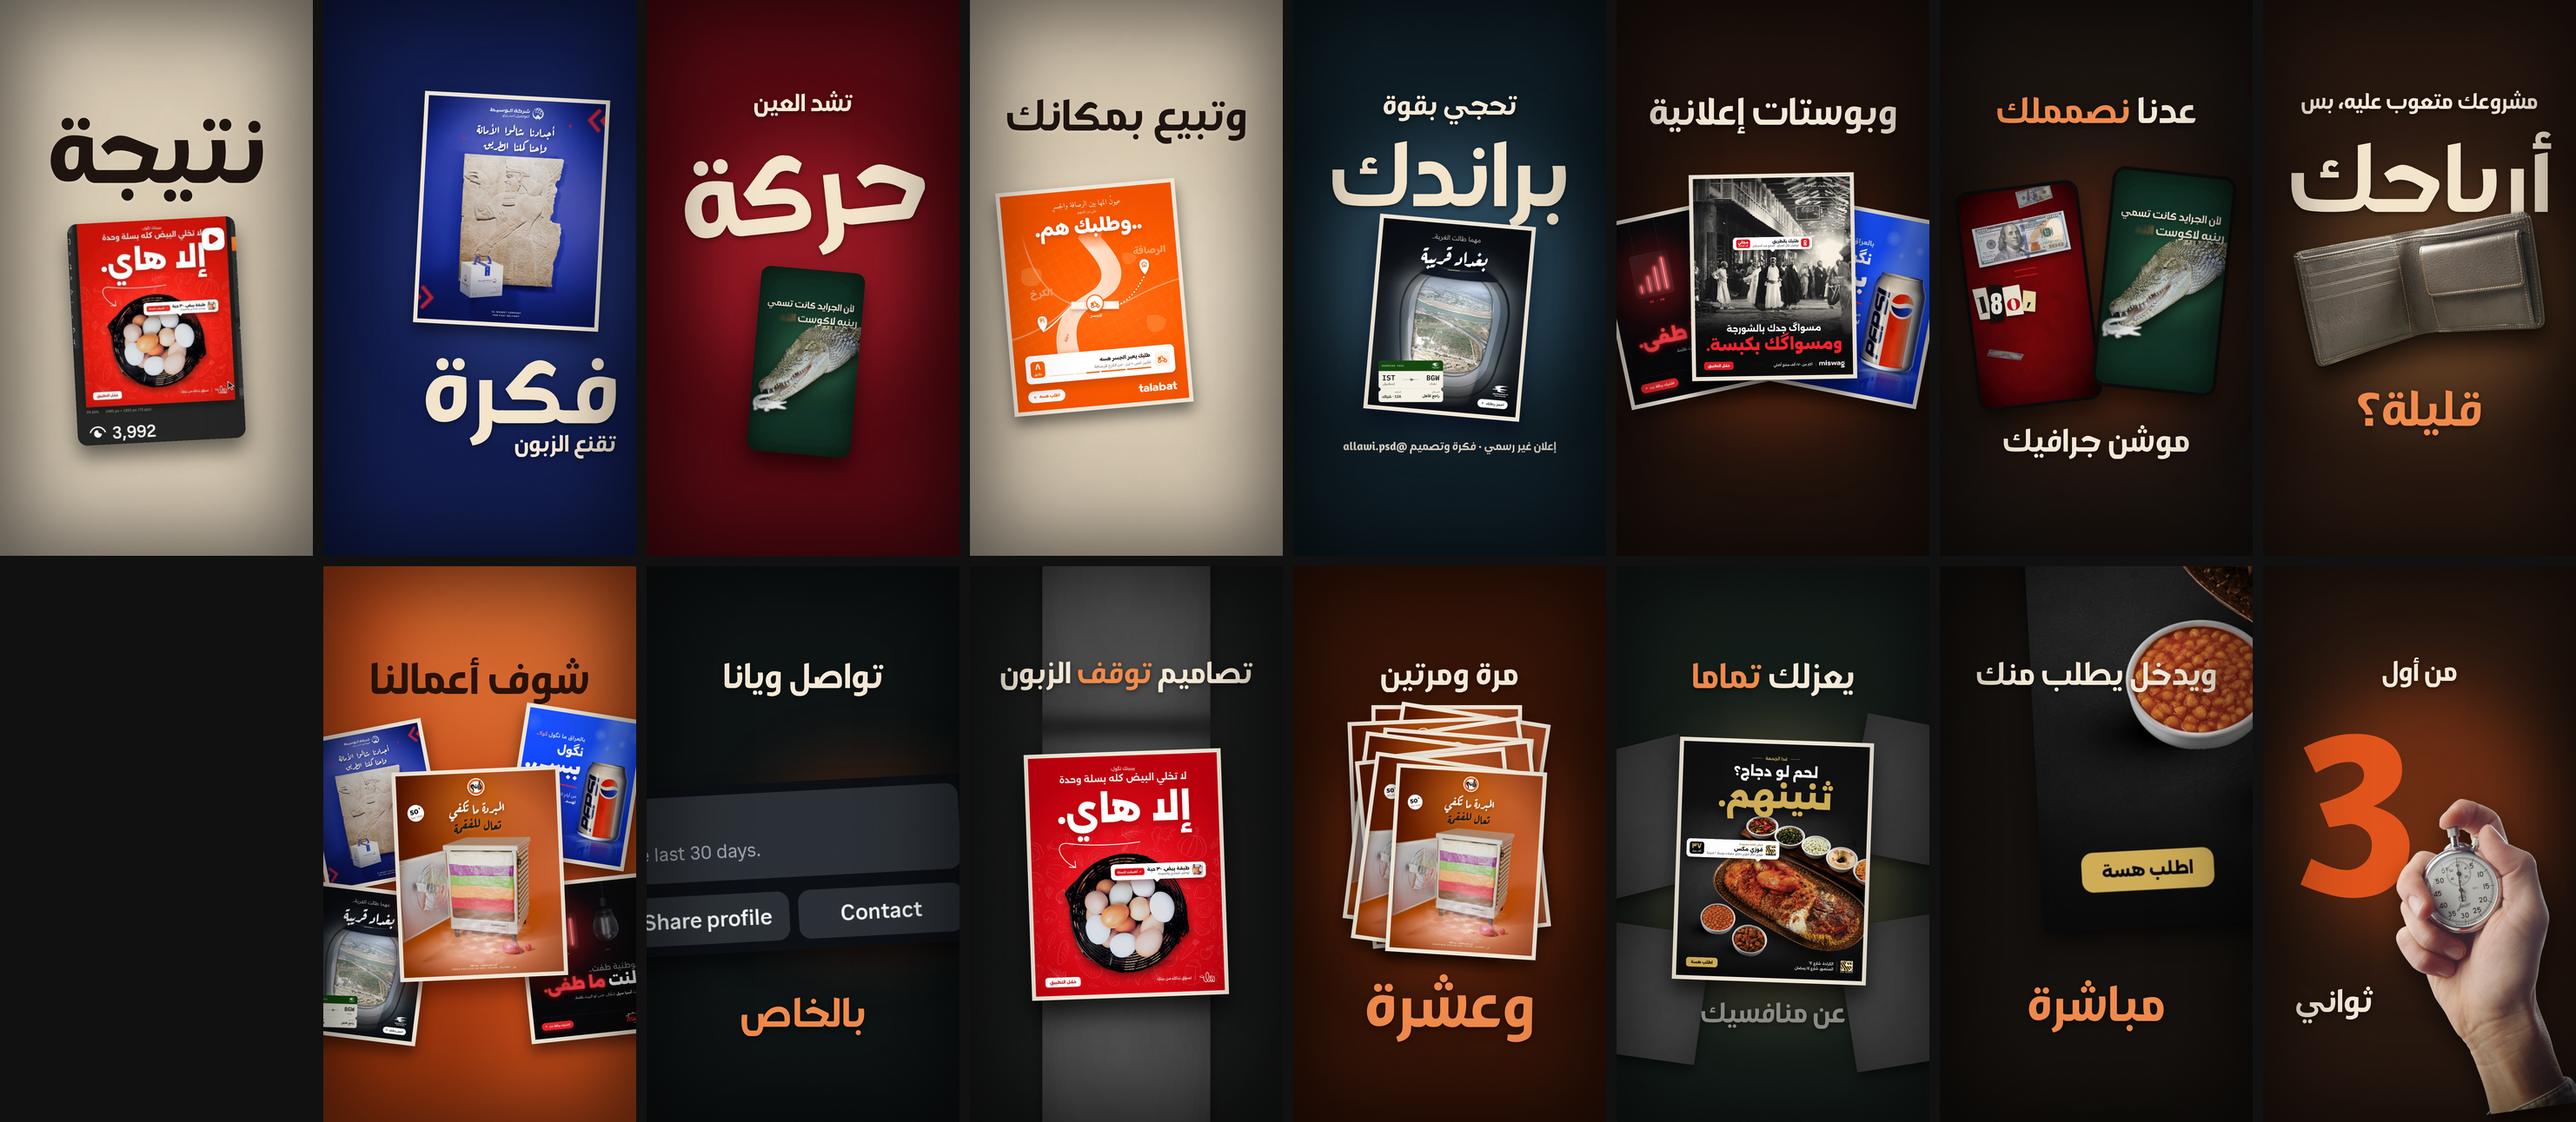
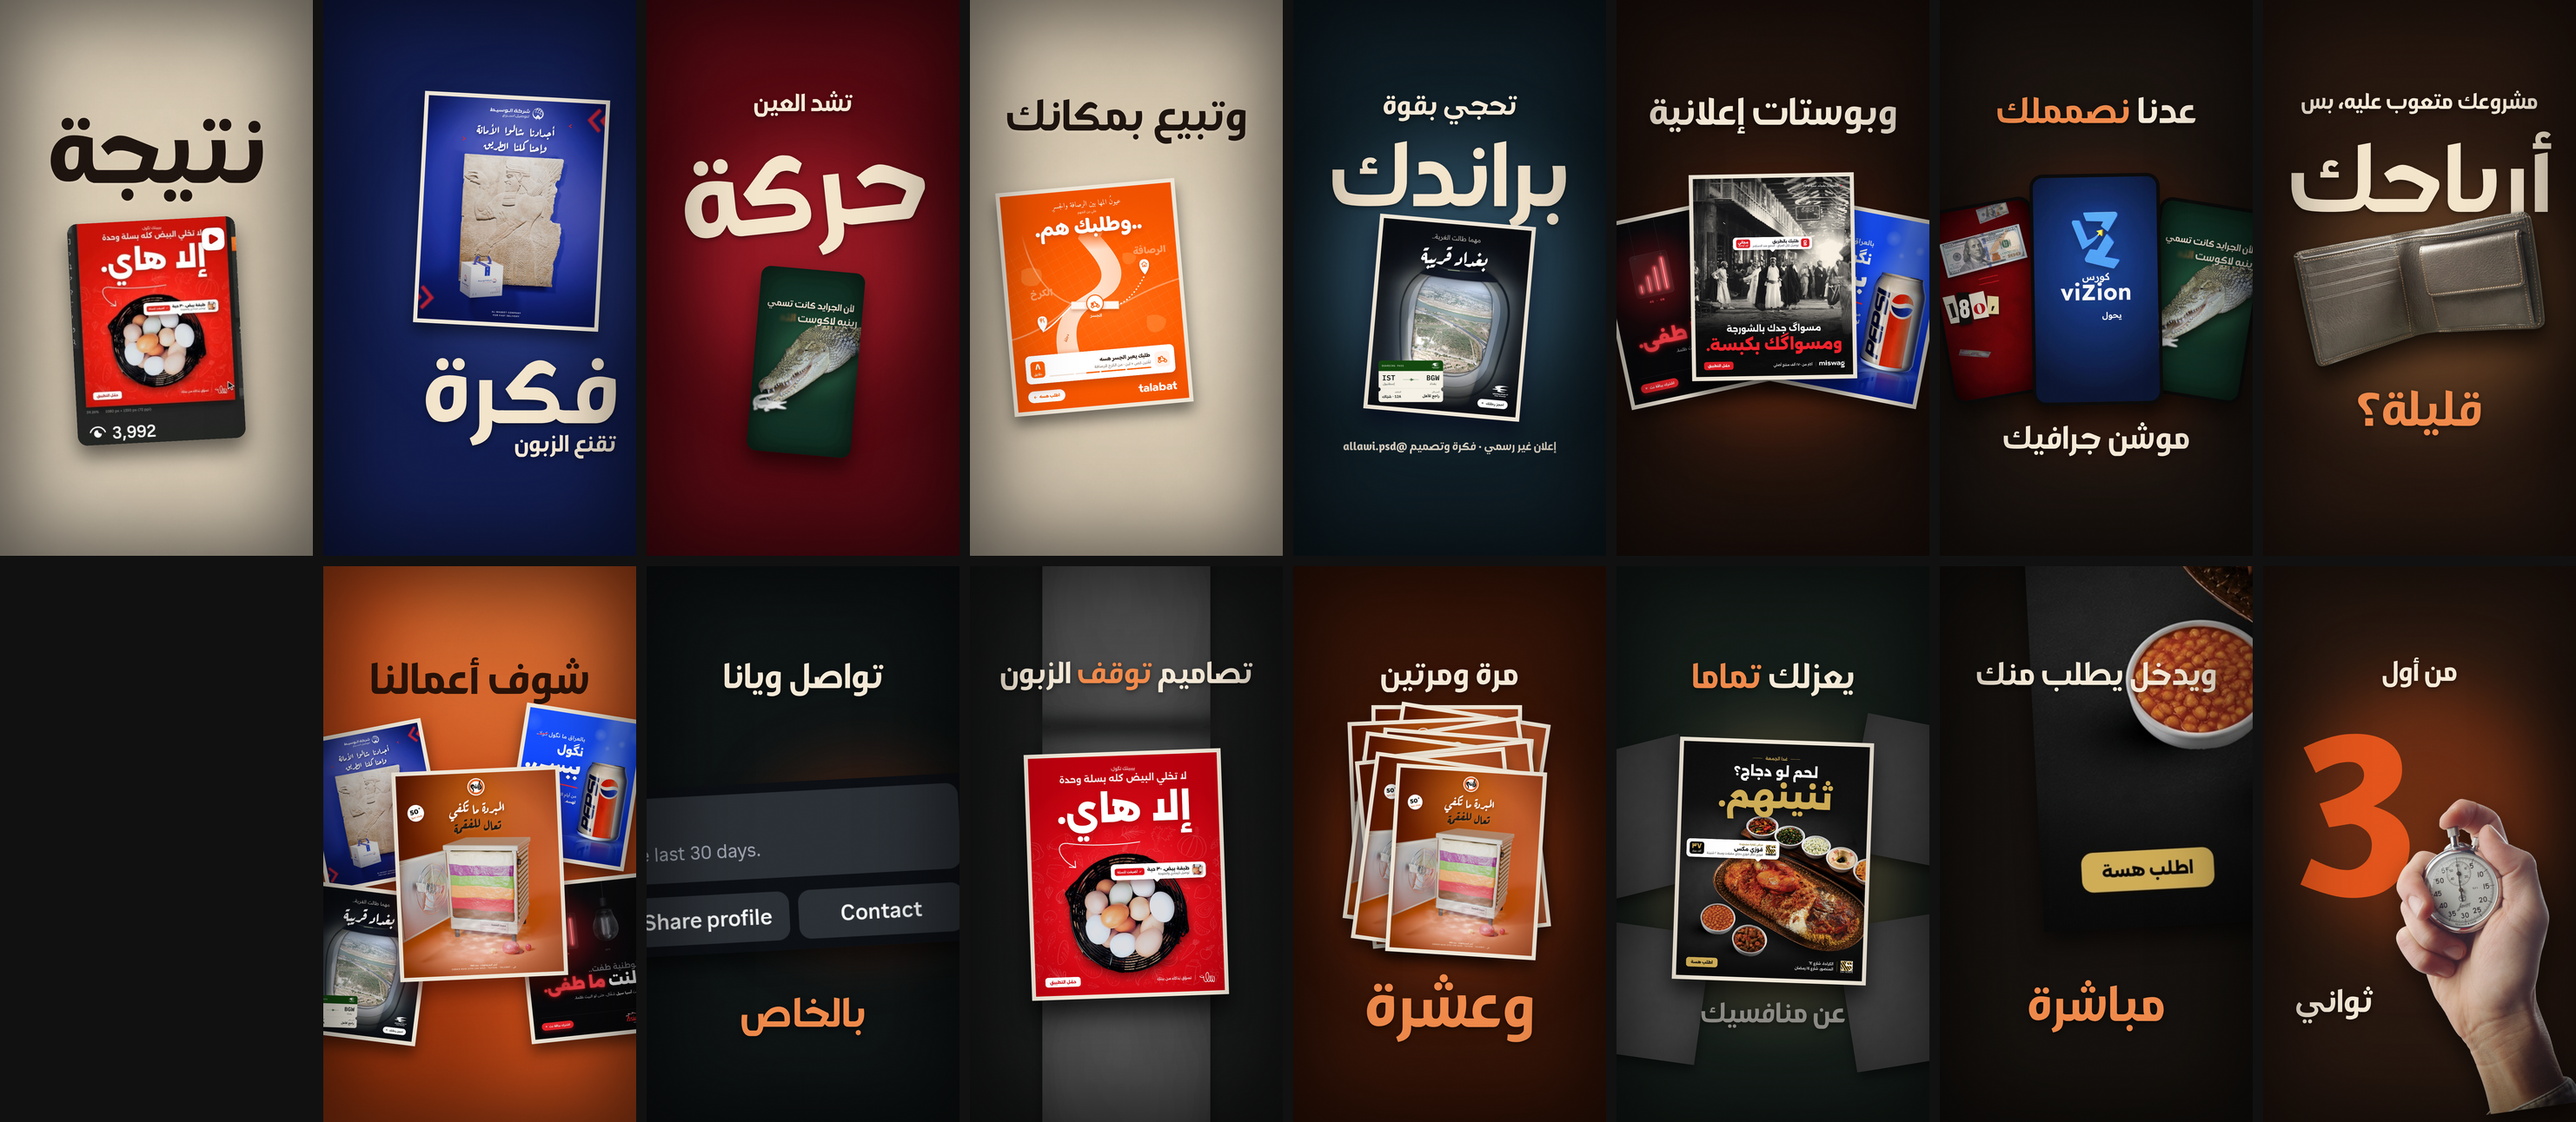
Ad reel: the viZion course reel on the centre phone

Changed region(s): [[0.7449, 0.1548, 0.9001, 0.4025]]

diff --git a/marketing/hf-allawi-ad-reel/stills.html b/marketing/hf-allawi-ad-reel/stills.html
@@ -64,13 +64,14 @@ html, body { width:1080px; background:#111 }
       <div class="dirt"></div><div class="grain"></div><div class="vig"></div>
     </div>
 
-    <!-- 4 · «عدنا نصمملك موشن جرافيك»: my reels playing on two phones (the viZion reel joins them when it comes) -->
+    <!-- 4 · «عدنا نصمملك موشن جرافيك»: my reels playing on three phones: the dollar reel, the viZion course reel, the logos reel -->
     <div class="f" id="f4">
       <div class="world" style="background:#1d1612"><i class="lt" style="left:160px; top:600px; width:800px; height:900px; background:rgba(226,84,27,.28)"></i></div>
-      <div class="shot phone" style="left:90px; top:640px; width:430px; height:764px; transform:rotate(-7deg)"><img src="assets/clips/dollar-frame.jpg" /></div>
-      <div class="shot phone" style="left:560px; top:590px; width:430px; height:764px; transform:rotate(6deg)"><img src="assets/clips/logos-frame.jpg" /></div>
+      <div class="shot phone" style="left:-10px; top:700px; width:380px; height:676px; transform:rotate(-10deg)"><img src="assets/clips/dollar-frame.jpg" /></div>
+      <div class="shot phone" style="left:710px; top:700px; width:380px; height:676px; transform:rotate(9deg)"><img src="assets/clips/logos-frame.jpg" /></div>
+      <div class="shot phone" style="left:315px; top:600px; width:450px; height:800px; transform:rotate(-1deg); box-shadow:0 50px 80px rgba(0,0,0,.7)"><img src="assets/clips/vizion-frame.jpg" /></div>
       <div class="t" style="top:300px; font-size:124px">عدنا <span class="k">نصمملك</span></div>
-      <div class="t" style="top:1450px; font-size:110px">موشن جرافيك</div>
+      <div class="t" style="top:1440px; font-size:110px">موشن جرافيك</div>
       <div class="dirt"></div><div class="grain"></div><div class="vig"></div>
     </div>
 
